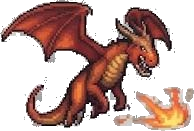
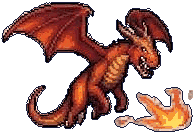
夥伴角色強化（11/12）：天海神龍
- 修圖：雲是灰白色，只剝 2 層灰邊
- 特效：水藍光暈、環繞龍珠；整隻浮空
- 專屬背景：日出的雲海與大海，仙山樓閣，雲飄過、海浪起伏
- 部位動作：魚身擺、尾巴搖；龍頭擺、尾巴捲；身邊的雲左右飄，點擊時膨一下

Claude-Session: https://claude.ai/code/session_016wQJDqNmeMZi3CzSXZ7hYD

Changed region(s): [[0.0, 0.0, 1.0, 1.0]]

diff --git a/web/js/core.js b/web/js/core.js
@@ -189,6 +189,8 @@ const PET_FX = {
   goblin: { from: 2, aura: "190,230,70", orb: "coin", colors: ["#5A3A0A", "#E8B830", "#FFF2A0"], spark: "#FFE27A" },
   // 聖騎士：聖光的金色光暈，環繞發光的十字星；披風擺動，熾天使型態浮空
   paladin: { from: 2, aura: "255,215,120", orb: "holy", colors: ["#8A6A1A", "#FFD24A", "#FFFFFF"], spark: "#FFF2B0", float: 5, sway: 4 },
+  // 天海神龍：水藍色光暈，環繞龍珠；整隻浮空
+  sea_dragon: { from: 2, aura: "90,200,255", orb: "pearl", colors: ["#1A4A7A", "#7FD4FF", "#FFFFFF"], spark: "#CFF2FF", float: 1, sway: 3 },
   beast_tamer: { from: 2, aura: "140,215,100", orb: "leaf", colors: ["#28501C", "#68AE36", "#D2F59A"], spark: "#CFF59A", sway: 2 },
 };
 const ORB_GRID = {
@@ -199,6 +201,7 @@ const ORB_GRID = {
   rune: [".11111.", "1222221", "1232321", "1223221", "1232321", "1222221", ".11111."],
   coin: ["..111..", ".12221.", "1223221", "1232321", "1223221", ".12221.", "..111.."],
   holy: ["...1...", "..121..", "1123211", "1233321", "1123211", "..121..", "...1..."],
+  pearl: ["..111..", ".12221.", "1233221", "1232221", "1222221", ".12221.", "..111.."],
   wisp: ["..111..", ".12221.", "1233321", "1233321", ".12321.", "..121..", "...1..."],
   leaf: ["....111", "...1221", "..12321", ".123221", "1232211", "122211.", "1111...", "1......"],
 };
@@ -402,6 +405,22 @@ const PET_SCENE = {
     const motes = Array.from({ length: 7 }, (_, i) => `<i class="petal mote" style="--i:${i}"></i>`).join("");
     return `<svg class="scene-art" viewBox="0 0 160 80" preserveAspectRatio="xMidYMax slice" shape-rendering="crispEdges">${s}</svg>${motes}<i class="godray"></i>`;
   },
+  // 天海神龍：日出的雲海與大海，仙山和樓閣、浪花，雲慢慢飄、海浪起伏
+  sea_dragon: () => {
+    let s = bands(0, ["#4A7FB8", "#5B8DC0", "#6C9BC6", "#7FA9CB", "#93B6CD", "#A8C2CC", "#BCCBC6", "#D0D2BE", "#E2D6B2", "#F0D6A4"], 5);
+    s += pxCircle(120, 40, 8, "#FFE9B0") + pxCircle(120, 40, 6, "#FFF6D8");
+    // 仙山（山峰尖尖、有樓閣）
+    const peak = (x, b, h, w, c) => { let t = ""; for (let i = 0; i < h; i++) { const ww = Math.max(1, Math.round(w * (i / h))); t += PX(x - ww, b - h + i, ww * 2, 1, c); } return t; };
+    s += peak(26, 44, 30, 10, "#5E7A8A") + peak(44, 44, 20, 9, "#728C98") + peak(140, 44, 26, 9, "#5E7A8A") + peak(150, 44, 16, 7, "#728C98");
+    s += PX(22, 12, 9, 2, "#8A2A2A") + PX(23, 14, 7, 3, "#C8B080") + PX(21, 11, 11, 1, "#5A1A1A") + PX(136, 16, 8, 2, "#8A2A2A") + PX(137, 18, 6, 2, "#C8B080");
+    // 雲海帶
+    for (let x = 0; x < 160; x += 3) { const y = 40 + Math.round(2 * Math.sin(x / 7)); s += PX(x, y, 4, 6, "#F2F4F2") + PX(x, y + 5, 4, 2, "#D2DCE2"); }
+    // 大海
+    s += PX(0, 48, 160, 32, "#2E6E9E") + PX(0, 48, 160, 2, "#5FA6CE") + PX(0, 62, 160, 18, "#245A84");
+    for (let y = 52; y < 80; y += 5) for (let x = (y * 3) % 12; x < 160; x += 14) s += PX(x, y, 6, 1, "#7FC2E2");
+    s += PX(104, 50, 32, 2, "#FFE9B0") + PX(110, 54, 20, 1, "#FFE9B0");
+    return `<svg class="scene-art" viewBox="0 0 160 80" preserveAspectRatio="xMidYMax slice" shape-rendering="crispEdges">${s}</svg><i class="cloud" style="--i:0"></i><i class="cloud" style="--i:1"></i><i class="cloud" style="--i:2"></i>`;
+  },
   // 精靈使：月夜的精靈泉，極光、古樹、發光的蘑菇，螢火慢慢往上飄
   spirit: () => {
     let s = bands(0, ["#0B1430", "#0E1B3B", "#112346", "#142C50", "#17365A", "#1A4062", "#1D4A69", "#20536E", "#235B72", "#266274"], 5);
@@ -499,6 +518,11 @@ const PET_FRONT = {
     s += PX(62, 6, 36, 4, "#A82A30") + PX(62, 6, 36, 1, "#E8C040");
     return `<svg class="front-art" viewBox="0 0 160 10" preserveAspectRatio="none" shape-rendering="crispEdges">${s}</svg>`;
   },
+  sea_dragon: () => {
+    let s = "";
+    for (let x = 0; x < 160; x += 4) { const h = 2 + ((x * 5) % 3); s += PX(x, 10 - h, 4, h, "#3E86B6") + PX(x, 10 - h, 3, 1, "#E8F6FF"); }
+    return `<svg class="front-art waves" viewBox="0 0 160 10" preserveAspectRatio="none" shape-rendering="crispEdges">${s}</svg>`;
+  },
   necromancer: () => `<i class="mist green front"></i><i class="mist green front m2"></i>`,
   spirit: () => {
     let s = "";
@@ -523,7 +547,7 @@ const petFront = (id) => (PET_FRONT[id] ? `<span class="scene-front" aria-hidden
 
 // 夥伴圖：有拆部位的（rigs.json）用分層組回角色，點擊時頭、翅膀、尾巴、下襬各自動；沒有的用整張圖
 // 圖層順序：翅膀、尾巴、魔力圈在身體後面；上半身、頭在前面。腳留在身體層，不另外動
-const RIG_Z = { wingL: 0, wingR: 0, tail: 0, tailL: 0, tailR: 0, ringL: 0, ringR: 0, torso: 2, head: 3, beast: 2, mane: 2, crystal: 3, wisp: 3, fairy: 3, ghost: 3, flame: 3, minion: 2, armL: 2, armR: 2, cape: 0, weapon: 3 };
+const RIG_Z = { wingL: 0, wingR: 0, tail: 0, tailL: 0, tailR: 0, ringL: 0, ringR: 0, torso: 2, head: 3, beast: 2, mane: 2, crystal: 3, wisp: 3, fairy: 3, ghost: 3, flame: 3, minion: 2, armL: 2, armR: 2, cape: 0, weapon: 3, cloudL: 3, cloudR: 3 };
 function petSprite(id, stage, boxH) {
   const rig = S.rigs?.[id]?.[stage + 1], sp = species(id);
   if (!rig || !sp) return charImg(id, stage, boxH);

diff --git a/web/style.css b/web/style.css
@@ -877,6 +877,8 @@ ol.steps { margin: 0; padding-left: 1.4em; font-size: .9375rem; line-height: 1.7
 .scene .petal.mote { width: 3px; height: 3px; background: #FFF2B0; box-shadow: 0 0 4px rgba(255, 230, 150, .9); }
 .scene .godray { position: absolute; left: 30%; top: 30%; width: 40%; height: 70%; background: linear-gradient(rgba(255, 242, 192, .25), rgba(255, 242, 192, 0));
   clip-path: polygon(40% 0, 60% 0, 100% 100%, 0 100%); }
+.scene .cloud { position: absolute; top: calc(8% + var(--i) * 13%); left: -30%; width: 46px; height: 12px; background: #F6F8F8;
+  box-shadow: 8px -6px 0 -1px #F6F8F8, 22px -4px 0 0 #F6F8F8, 0 3px 0 #D6E0E6; opacity: .9; }
 .scene .star { position: absolute; width: 3px; height: 3px; background: #FFF4D6; box-shadow: 0 0 4px #FFF4D6; }
 .scene .mist { position: absolute; left: -40%; bottom: 14%; width: 180%; height: 22px; opacity: .55;
   background: repeating-linear-gradient(90deg, rgba(190, 130, 230, .0) 0 18px, rgba(190, 130, 230, .35) 18px 60px, rgba(190, 130, 230, 0) 60px 90px); }
@@ -903,6 +905,10 @@ ol.steps { margin: 0; padding-left: 1.4em; font-size: .9375rem; line-height: 1.7
   @keyframes drip-fall { 0%, 40% { opacity: 0; transform: translateY(0); } 45% { opacity: 1; } 100% { opacity: .8; transform: translateY(150px); } }
   .scene .godray { animation: ray-pulse 4s ease-in-out infinite; }
   @keyframes ray-pulse { 50% { opacity: .45; } }
+  .scene .cloud { animation: cloud-drift calc(26s + var(--i) * 9s) linear calc(var(--i) * -11s) infinite; }
+  @keyframes cloud-drift { to { left: 120%; } }
+  .scene-front .waves { animation: wave-bob 2s steps(2) infinite; }
+  @keyframes wave-bob { 50% { transform: translateX(-3px) translateY(1px); } }
   .scene .bird { animation: bird-fly calc(11s + var(--i) * 4s) linear calc(var(--i) * -6s) infinite, bird-flap .5s steps(2) infinite; }
   @keyframes bird-fly { 0% { left: -10%; } 100% { left: 110%; transform: translateY(-14px); } }
   @keyframes bird-flap { 50% { background-position: 0 1px, 4px 1px, 2px 0; } }
@@ -939,6 +945,9 @@ ol.steps { margin: 0; padding-left: 1.4em; font-size: .9375rem; line-height: 1.7
 .stage[data-scene="paladin"] .pet img, .stage[data-scene="paladin"] .pet .wavy {
   filter: drop-shadow(0 -2px 0 rgba(255, 242, 200, .6)) drop-shadow(0 0 10px rgba(255, 215, 120, .35)); }
 .stage[data-scene="paladin"] .pet-shadow { background: rgba(60, 40, 40, .45); }
+.stage[data-scene="sea_dragon"] .pet img, .stage[data-scene="sea_dragon"] .pet .wavy {
+  filter: drop-shadow(2px 0 0 rgba(255, 236, 190, .6)) drop-shadow(0 0 10px rgba(90, 200, 255, .35)); }
+.stage[data-scene="sea_dragon"] .pet-shadow { background: rgba(10, 40, 70, .45); }
 .stage[data-scene="spirit"] .pet img, .stage[data-scene="spirit"] .pet .wavy {
   filter: brightness(.95) drop-shadow(-2px 0 0 rgba(220, 255, 245, .55)) drop-shadow(0 0 10px rgba(110, 230, 205, .35)); }
 .stage[data-scene="spirit"] .pet-shadow { background: rgba(5, 20, 25, .55); box-shadow: 0 0 14px 4px rgba(110, 230, 205, .2); }
@@ -976,6 +985,10 @@ ol.steps { margin: 0; padding-left: 1.4em; font-size: .9375rem; line-height: 1.7
   .pet.react .rig .rp-swing { animation: smash .9s cubic-bezier(.3, 1.4, .5, 1) 1; }
   @keyframes idle-swing { 50% { rotate: -3deg; } }
   @keyframes smash { 0% { rotate: 0deg; } 30% { rotate: -28deg; } 55% { rotate: 8deg; } 100% { rotate: 0deg; } }
+  .rig .rp-drift { animation: idle-drift 6s ease-in-out infinite; }
+  .pet.react .rig .rp-drift { animation: puff .8s ease-out 1; }
+  @keyframes idle-drift { 50% { translate: 3px 0; } }
+  @keyframes puff { 40% { scale: 1.12; } }
   .rig .rp-nod { animation: idle-nod 4s ease-in-out infinite; }
   .rig .rp-bob { animation: idle-bob 3s steps(6, jump-none) infinite alternate; }
   .rig .rp-flicker { animation: idle-flicker .9s steps(2) infinite; }

diff --git a/tools/rig_split.py b/tools/rig_split.py
@@ -109,6 +109,13 @@ RIGS: dict[str, dict[int, list]] = {
             ("cape", [2, 60, 40, 114], [38, 62], "swayL"), ("torso", [38, 46, 95, 78], [64, 78], "breath")],
         5: [("head", [84, 28, 104, 52], [94, 52], "tilt"), ("torso", [72, 52, 118, 85], [95, 85], "breath"),
             ("wingL", [10, 0, 80, 100], [78, 45], "flapL"), ("wingR", [112, 0, 193, 95], [114, 45], "flapR")]},
+    # 天海神龍：魚身擺、尾巴搖；龍頭擺、尾巴捲；周圍的雲左右飄（整隻浮空）
+    "sea_dragon": {
+        1: [("tail", [25, 60, 52, 94], [40, 64], "wag"), ("torso", [15, 8, 86, 60], [50, 60], "breath")],
+        2: [("tail", [0, 8, 44, 72], [42, 40], "wag"), ("beast", [86, 8, 123, 72], [88, 40], "nod")],
+        3: [("head", [90, 0, 134, 70], [95, 55], "tilt"), ("tail", [96, 80, 134, 132], [100, 95], "wag")],
+        4: [("head", [85, 0, 136, 55], [95, 50], "tilt"), ("cloudL", [4, 8, 46, 42], [25, 25], "drift"), ("cloudR", [94, 104, 146, 138], [120, 120], "drift")],
+        5: [("head", [70, 8, 130, 74], [100, 72], "tilt"), ("cloudL", [0, 4, 62, 48], [30, 25], "drift"), ("cloudR", [112, 8, 162, 50], [136, 30], "drift")]},
     "fox_spirit": {
         1: [("head", [36, 0, 77, 42], [52, 40], "tilt"), ("tail", [4, 18, 36, 66], [36, 52], "wag")],
         2: [("head", [48, 8, 82, 46], [64, 46], "tilt"), ("tailL", [6, 38, 50, 112], [50, 70], "fanL"), ("torso", [46, 46, 85, 95], [64, 95], "breath")],

diff --git a/tools/pixel_polish.py b/tools/pixel_polish.py
@@ -265,6 +265,9 @@ TUNE = {
     "orc": {"sat": 1.12, "contrast": 1.08, "min_bit": 30, "peel": 1, "blobs": True},
     "goblin": {"sat": 1.12, "contrast": 1.08, "min_bit": 30, "peel": 1, "blobs": True},
     "paladin": {"sat": 1.12, "contrast": 1.08, "min_bit": 30, "peel": 1, "blobs": True},
+    # 天海神龍：雲是灰白色，只剝 2 層灰邊；火龍：沒有灰色部位，照一般方式剝
+    "sea_dragon": {"sat": 1.15, "contrast": 1.08, "min_bit": 30, "peel": 2, "blobs": True},
+    "flame_dragon": {"sat": 1.15, "contrast": 1.08, "min_bit": 30, "blobs": True},
     "fox_spirit": {"sat": 1.25, "contrast": 1.08},   # 和服的紅、紫、金更華麗
     # 魅魔：跟九尾狐的粉紅分開 → 粉紅轉成深紫紅、整體暗一點；翅膀和魔力圈裡夾著背景棋盤格
     "succubus": {"sat": 1.2, "contrast": 1.12, "holes": True, "hue": [(296, 8, -30, 0.84)]},
